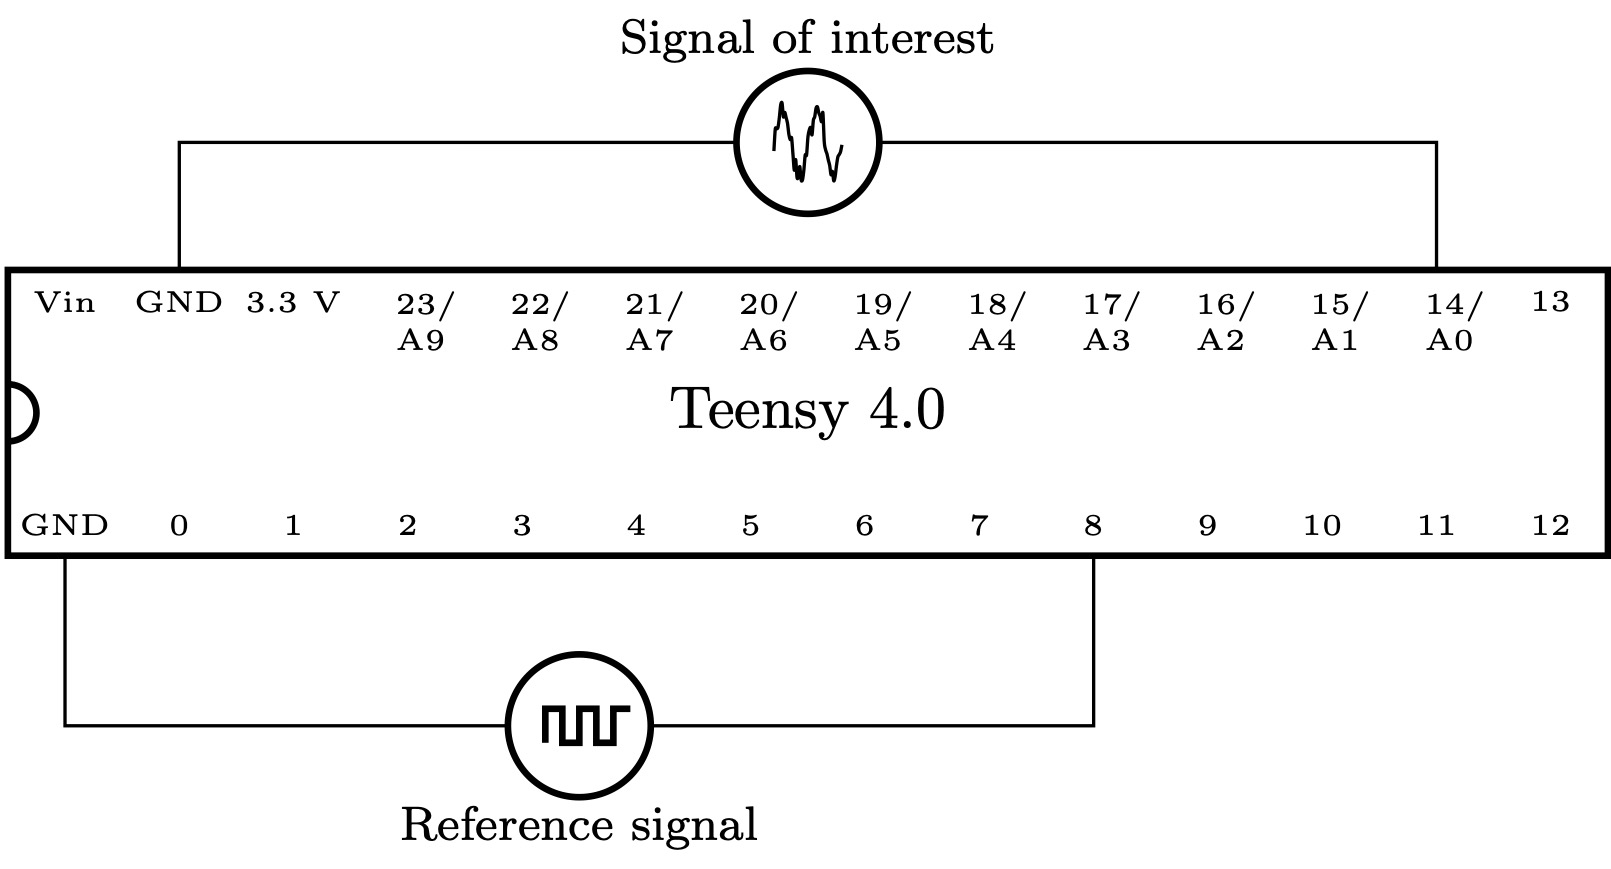
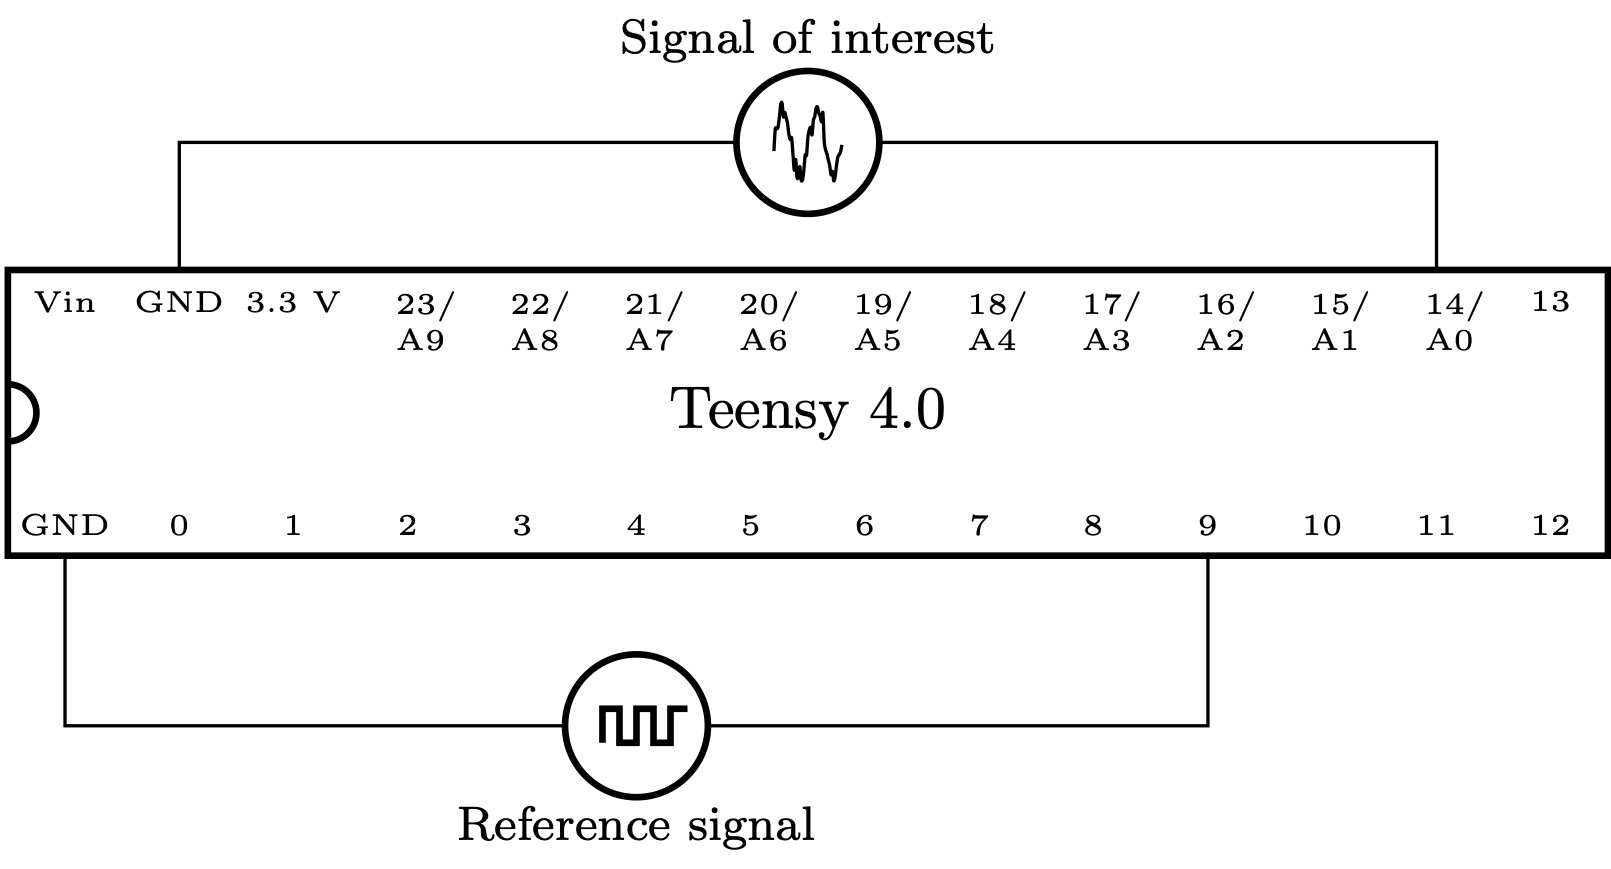
fixed incorrect pin in t4.0 connection diagram

Changed region(s): [[0.2483, 0.7457, 0.5276, 0.9942], [0.6828, 0.8078, 0.7449, 0.8389]]

diff --git a/docs/img/teensy_40_external.tex b/docs/img/teensy_40_external.tex
@@ -12,10 +12,10 @@
 
 \input{teensy_40}
 
-\draw let \p{A} = (IC.bpin 1), \p{B} = (IC.bpin 10) in
+\draw let \p{A} = (IC.bpin 1), \p{B} = (IC.bpin 11) in
   (IC.bpin 1)   to [short, -] ++(0, -1)
   to [esource, name = extRef] ++({(\x{B} - \x{A})}, 0) 
-  -| (IC.bpin 10)
+  -| (IC.bpin 11)
   
 %  (IC.bpin 1) ++ (0, -1) 
 %  to [short, -] ++(0, -1.5)

diff --git a/docs/hardware.md b/docs/hardware.md
@@ -30,4 +30,4 @@ As shown in the figure below, using FreqCount on Teensy 4.0 requires the externa
 
 ![Schematic showing connections to Teensy 4.0 in internal reference mode](./img/teensy_40_external.jpg)
 
-Note that a 5 V square wave reference signal cannot safely be directly connected to the Teensy 4.0. While there are many ways to step the reference signal down (a simple resistive divider may be adequate for slow signals), an easy-to-use integrated circuit that can reliably perform this task is the [74LVC245](https://www.ti.com/lit/gpn/sn74lvc245a).
+Note that a 5 V square wave reference signal cannot safely be directly connected to the Teensy 4.0. While there are many ways to step the reference signal down (a simple resistive divider may be adequate for slow signals), an easy-to-use integrated circuit that can reliably perform this task is the [74LVC245](https://www.ti.com/lit/gpn/sn74lvc245a). While not shown in the figure, a capacitor may be needed across pins 9 and ground to quiet spurious analog ringing.
